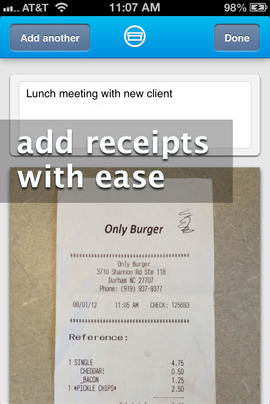
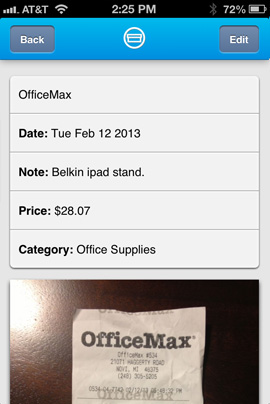
updates to the homepage, receipts working with sync, new relic added

diff --git a/app/controllers/pages_controller.rb b/app/controllers/pages_controller.rb
@@ -16,4 +16,31 @@ class PagesController < ApplicationController
       redirect_to :root
     end
   end
+
+  def sync
+    connection = Shoehorn::Connection.new(Credential.find_by_key(:app_name).value, Credential.find_by_key(:app_token).value)
+    User.all.each do |user|
+      connection.user_token = user.tkn
+      connection.receipts.each do |receipt|
+        puts receipt.inspect
+        params = {
+          receipt_id: receipt.id,
+          store: receipt.store,
+          total: receipt.total,
+          note: receipt.note,
+          sell_date: receipt.selldate,
+          modified_date: receipt.modified_date,
+          created_date: receipt.created_date,
+          categories: receipt.categories.map{|x| x.name}.join(', '),
+          image: receipt.images.first.imgurl
+        }
+        system_receipt = Receipt.find_by_receipt_id(receipt.id)
+        if system_receipt.nil?
+          Receipt.create(params)
+        else
+          system_receipt.update_attributes(params) if system_receipt.modified_date != receipt.modified_date
+        end
+      end
+    end
+  end
 end

diff --git a/db/schema.rb b/db/schema.rb
@@ -11,11 +11,25 @@
 #
 # It's strongly recommended to check this file into your version control system.
 
-ActiveRecord::Schema.define(:version => 20130216042141) do
+ActiveRecord::Schema.define(:version => 20130216193632) do
 
   create_table "credentials", :force => true do |t|
     t.string "key"
     t.string "value"
+  end
+
+  create_table "receipts", :force => true do |t|
+    t.integer  "receipt_id"
+    t.string   "store"
+    t.string   "total"
+    t.text     "note"
+    t.datetime "sell_date"
+    t.datetime "modified_date"
+    t.datetime "created_date"
+    t.string   "categories"
+    t.string   "image"
+    t.datetime "created_at"
+    t.datetime "updated_at"
   end
 
   create_table "users", :force => true do |t|
@@ -24,6 +38,7 @@ ActiveRecord::Schema.define(:version => 20130216042141) do
     t.string   "email"
     t.datetime "created_at"
     t.datetime "updated_at"
+    t.boolean  "post_receipts", :default => false
   end
 
 end

diff --git a/config/routes.rb b/config/routes.rb
@@ -2,6 +2,7 @@ Slipaid::Application.routes.draw do
   resources :users
 
   get 'register' => 'pages#register'
+  get 'sync' => 'pages#sync'
 
   root :to => 'pages#index'
   # The priority is based upon order of creation:
